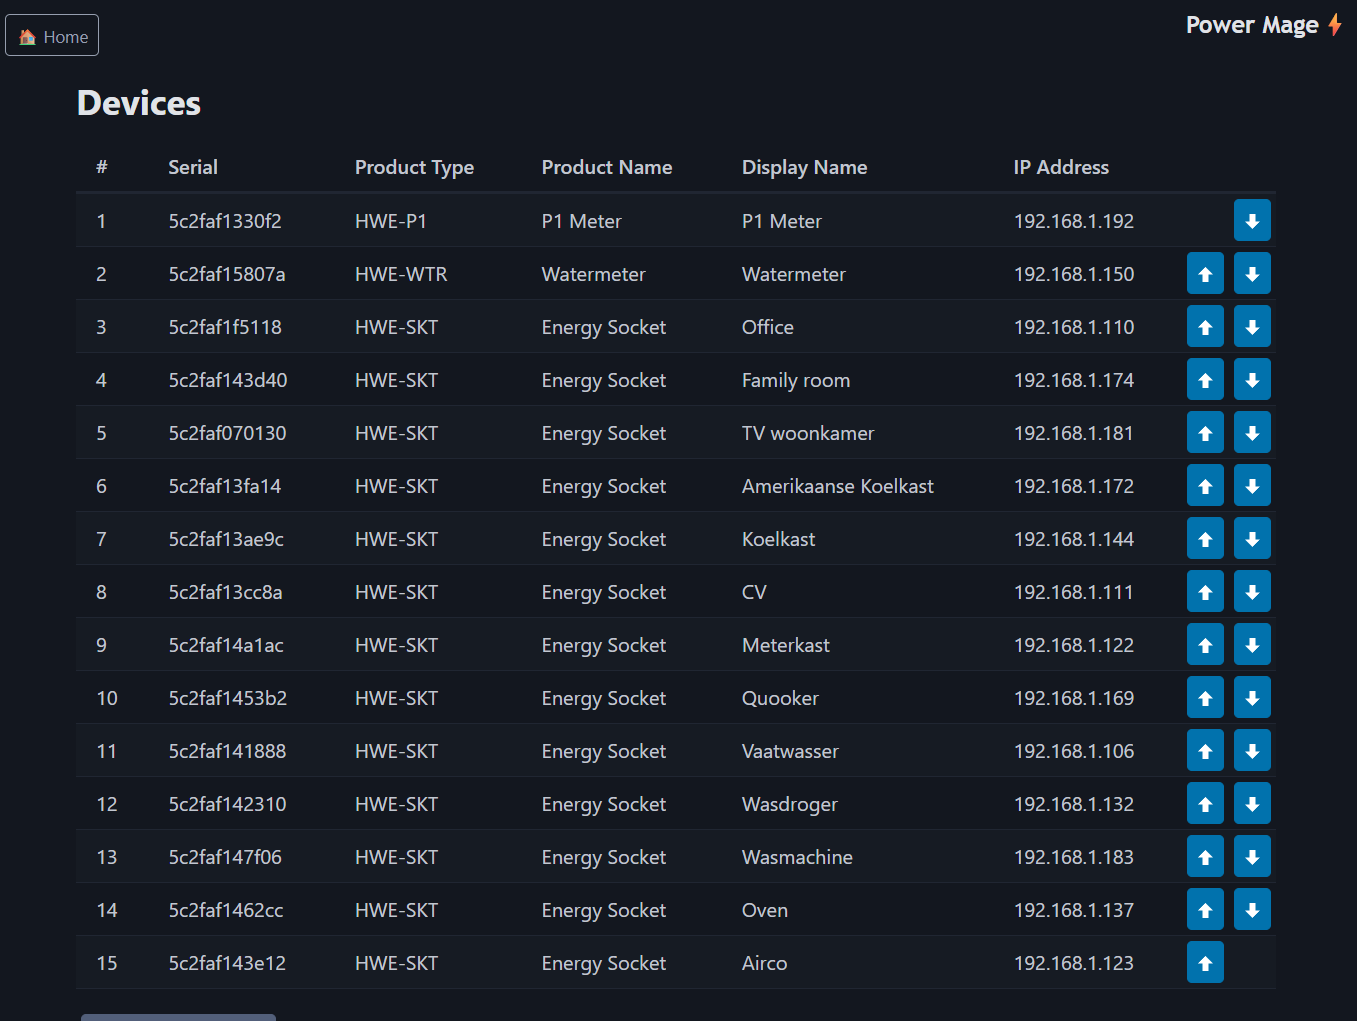
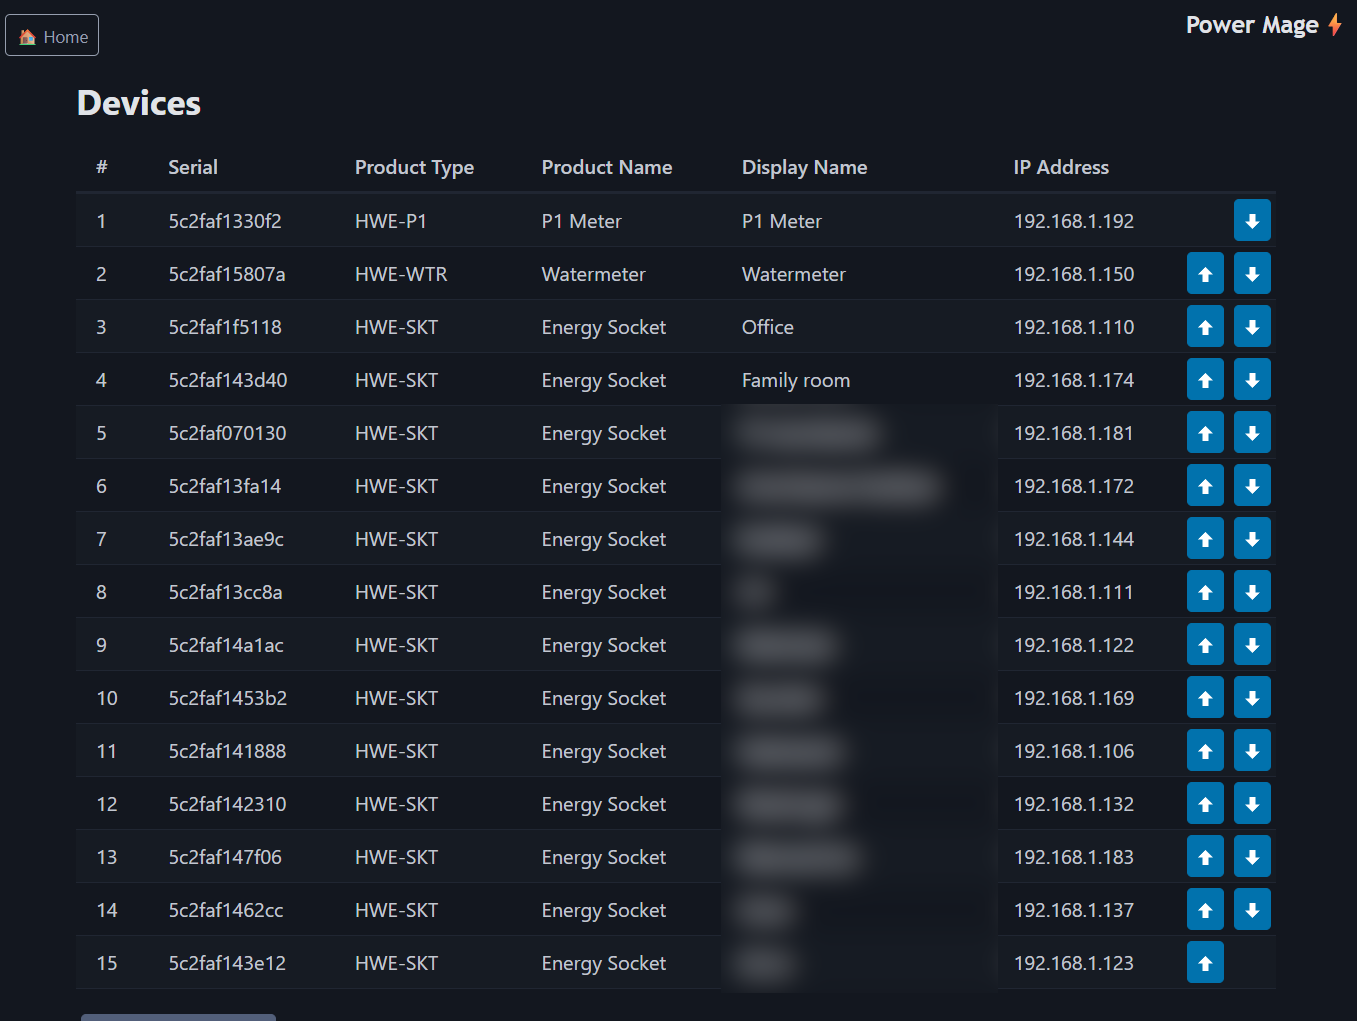
Add readme

Changed region(s): [[0.5262, 0.3947, 0.7119, 0.9716]]

diff --git a/README.md b/README.md
@@ -1,0 +1,103 @@
+# PowerMage
+
+PowerMage is a self-hosted dashboard and data collector for HomeWizard energy and water devices. It reads device measurements over the local network and stores them locally, so it works without a HomeWizard cloud account or cloud subscription.
+
+Supported device types in the current collector include P1 meters (`HWE-P1`), Energy Socket devices (`HWE-SKT`), and Water meters (`HWE-WTR`). The dashboard shows device measurements over day, week, and month views.
+
+## Screenshots
+
+![PowerMage dashboard](dashboard.png)
+
+![Weekly energy chart](weekgraph.png)
+
+![Monthly energy chart](monthgraph.png)
+
+![PowerMage settings](settings.png)
+
+## How It Works
+
+The solution runs as two Docker containers:
+
+- **PowerMage App** serves the interactive dashboard, device management, and mDNS discovery.
+- **PowerMage Collector** polls tracked devices every 30 seconds and records measurements.
+
+Both containers use the same SQLite database at `/app/data/app.db`. In the supplied Compose file, `./data` is mounted at `/app/data` in both containers, so device settings and collected history persist on the host and are shared by the app and collector.
+
+### Local Device Discovery
+
+Open **Devices** and choose **Add new device**. The app sends an mDNS browse query for `_hwenergy._tcp.local` using IPv4 multicast (`224.0.0.251:5353`). Discovered devices are offered in the add-device form; you can also enter a device manually.
+
+Discovery and measurement collection use the local network, not HomeWizard cloud services. The collector requests measurements directly from each device at `http://<device-ip>/api/v1/data`. The app container must be able to receive mDNS multicast from the device LAN, and the collector container must be able to reach the devices' IP addresses. Docker bridge networking does not always forward mDNS between containers and the physical LAN; if discovery does not find devices, configure the host/container networking or an mDNS relay so multicast can reach the app container. The devices must have their local API enabled and be reachable from the Docker host/network.
+
+## Run With Docker Compose
+
+Requirements:
+
+- Docker Engine or Docker Desktop with the Compose plugin.
+- Network access from the containers to the HomeWizard devices.
+- .NET 10 container images available to the Docker build. The Dockerfiles currently use `registry.docker.local` as the image registry; change those image references to an accessible .NET 10 registry if that hostname is specific to your environment.
+
+The Compose file attaches both services to an external Docker network named `virtual-network`, so create it once if it does not already exist:
+
+```powershell
+docker network create virtual-network
+docker compose up -d --build
+```
+
+To follow startup logs:
+
+```powershell
+docker compose logs -f powermage powermage-collector
+```
+
+The supplied Compose file does not publish a host port. It adds the `dmz.url` label `http://powermage.docker.local/` for a reverse proxy that understands that label and is connected to `virtual-network`. If you do not use that proxy, publish the app's container port by adding this under the `powermage` service:
+
+```yaml
+    ports:
+      - "8080:8080"
+```
+
+Then open <http://localhost:8080>. Do not publish a port for the collector; it has no web interface.
+
+The SQLite database is stored in `./data/app.db`. Back up the `data` directory while the containers are stopped to make a consistent copy.
+
+## Windows Docker Performance
+
+The default `./data:/app/data` bind mount stores database I/O in a Windows-host directory. On Windows, especially when using Docker Desktop with a WSL 2 backend, file sharing across the Windows/Linux boundary can be slower than Docker-managed storage.
+
+For better database I/O performance, replace the `./data:/app/data` mount on **both** services with the same named volume and declare it at the end of `docker-compose.yml`:
+
+```yaml
+services:
+  powermage:
+    volumes:
+      - powermage-data:/app/data
+
+  powermage-collector:
+    volumes:
+      - powermage-data:/app/data
+
+volumes:
+  powermage-data:
+```
+
+Docker-managed volumes are stored inside Docker's Linux environment and can avoid the Windows filesystem-sharing overhead. A named volume is separate from the existing `./data` directory, so copy or migrate `app.db` before switching if you need to keep existing history. With a named volume, use `docker compose down` to stop the services; avoid `docker compose down -v` unless you intend to delete the database volume.
+
+## Project Structure
+
+```text
+PowerMage/
+  Api/                 HomeWizard local API client and measurement models
+  Repository/           SQLite-backed device and measurement access
+  Services/             mDNS discovery and SQLite initialization
+  ServiceCollectionExtensions.cs
+PowerMage.App/
+  Components/           Blazor dashboard, device management, charts, and settings
+  wwwroot/               Static assets and styles
+  Program.cs             Web app startup
+PowerMage.Collector/
+  CollectorHostedService.cs
+  Program.cs             Background collector startup
+data/                    Persistent SQLite data (created/mounted by Compose)
+docker-compose.yml       App and collector service definitions
+```
